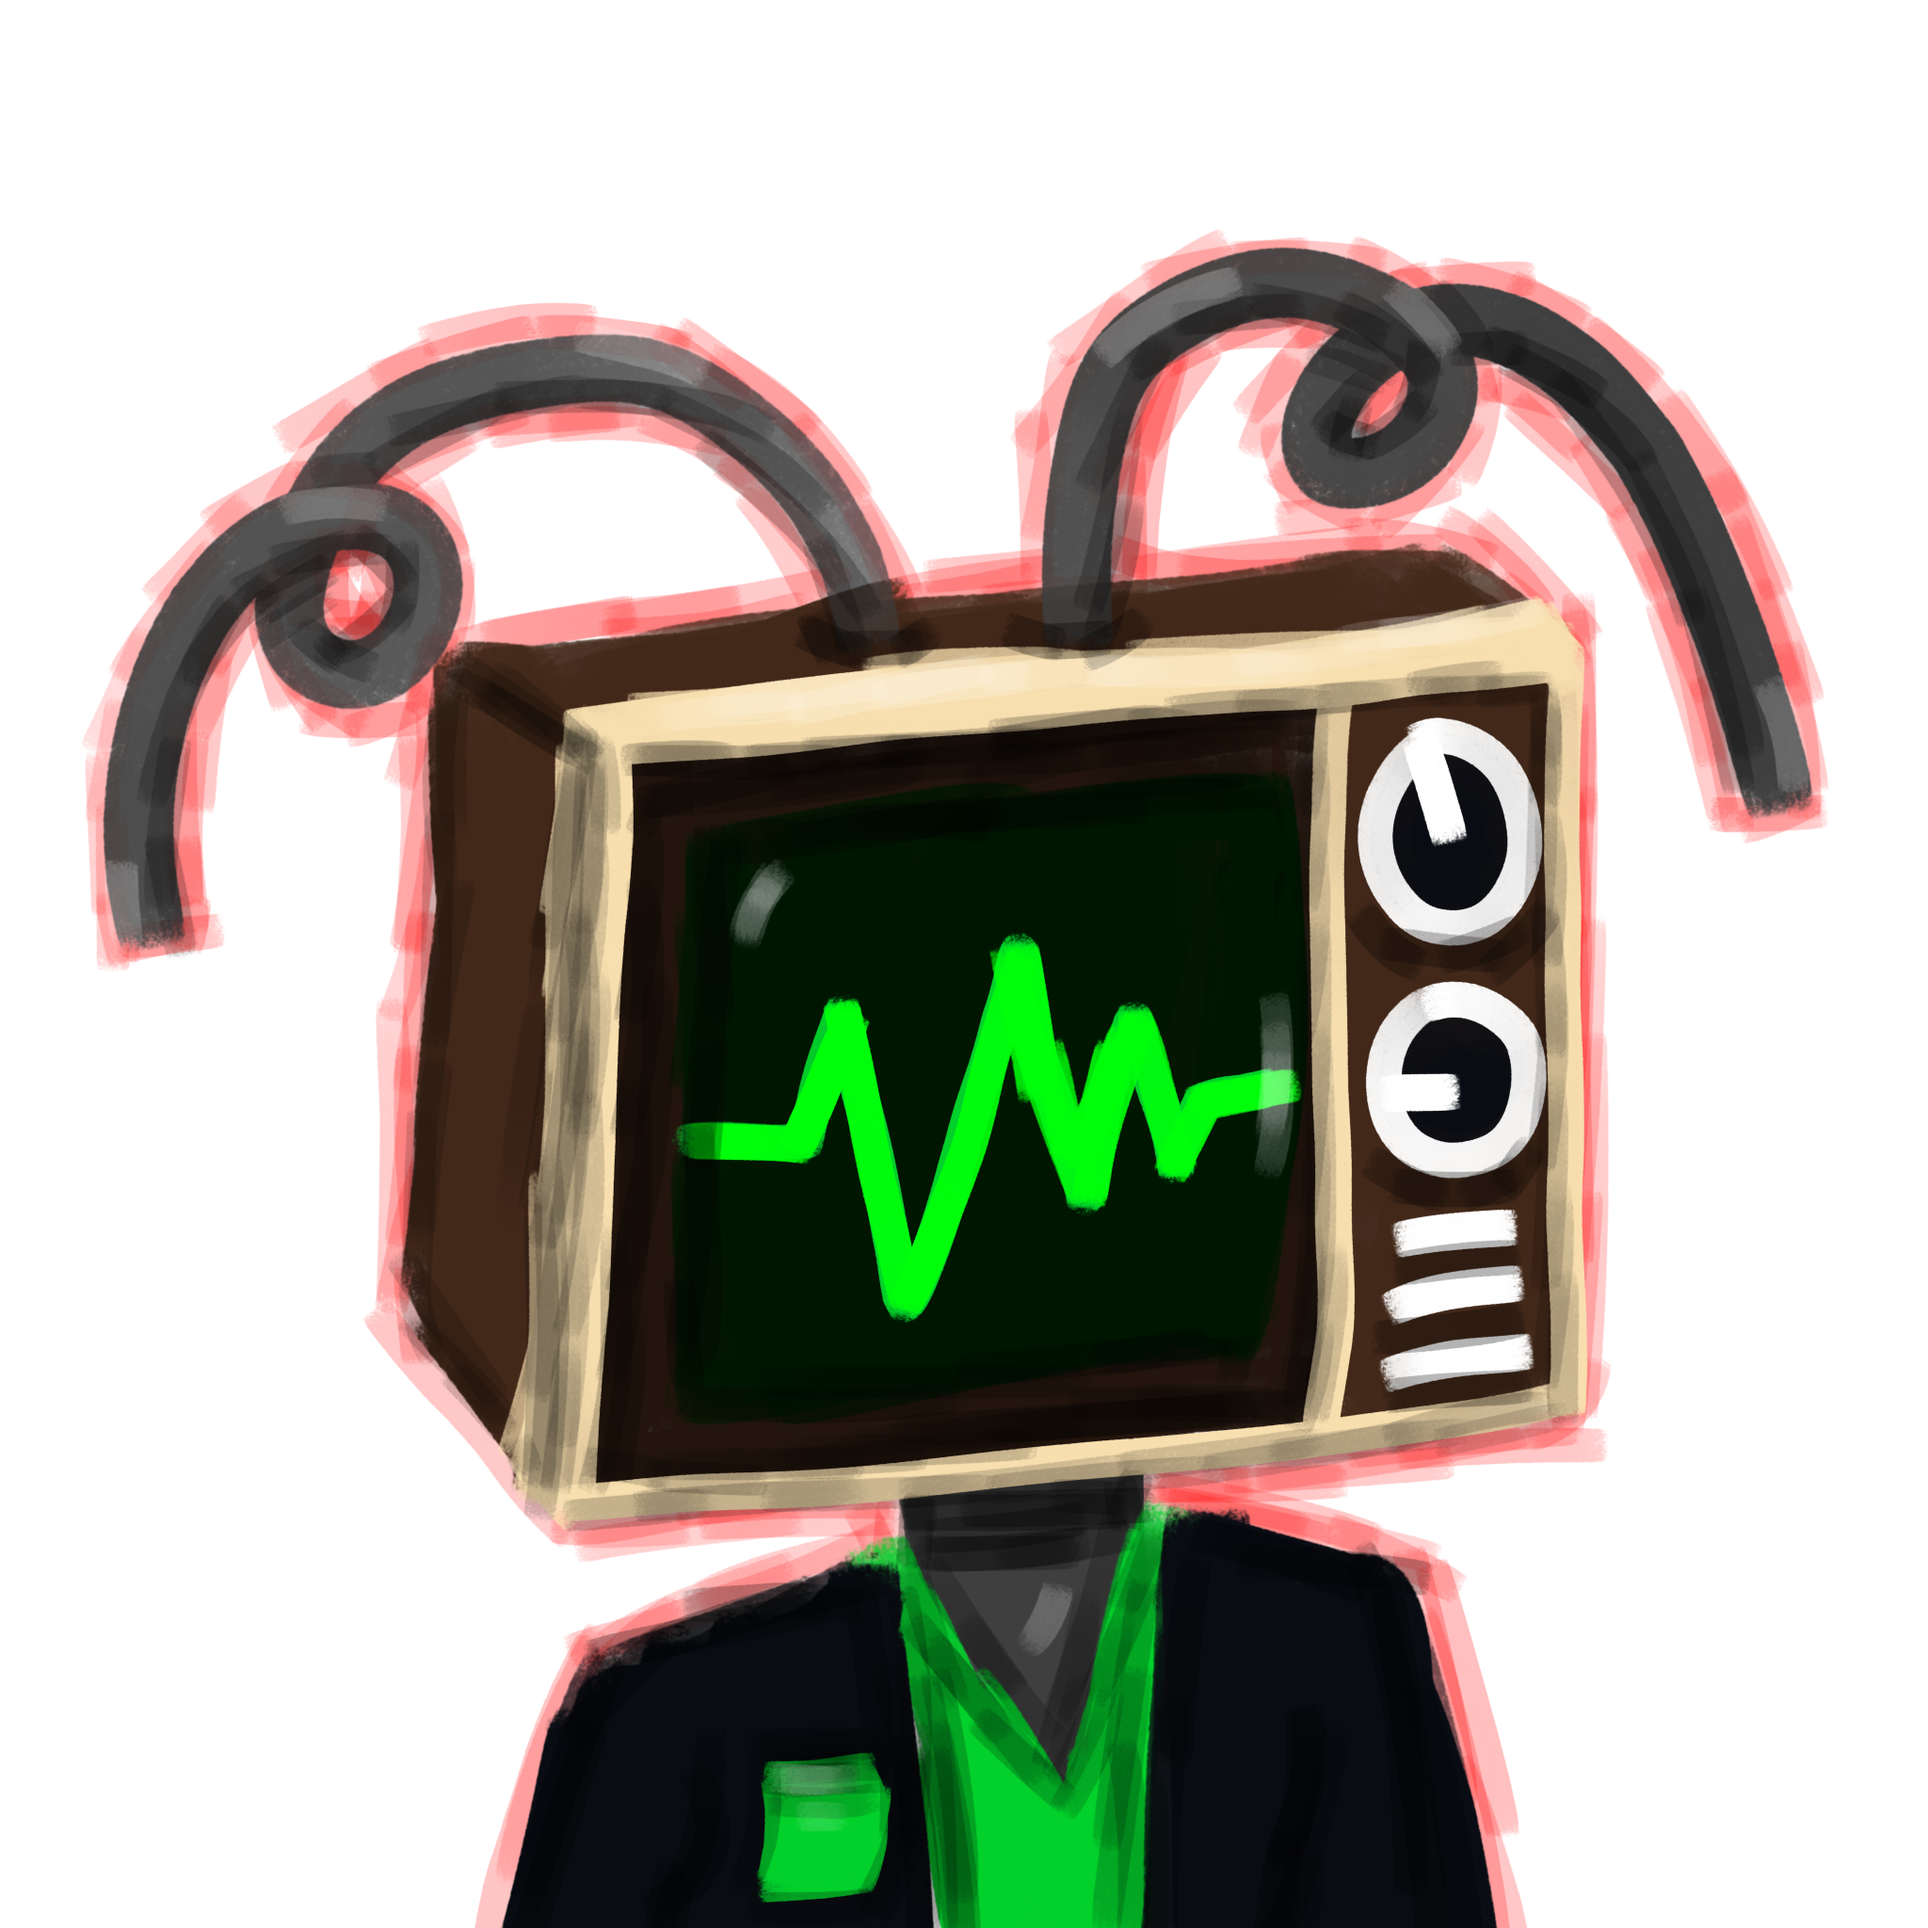
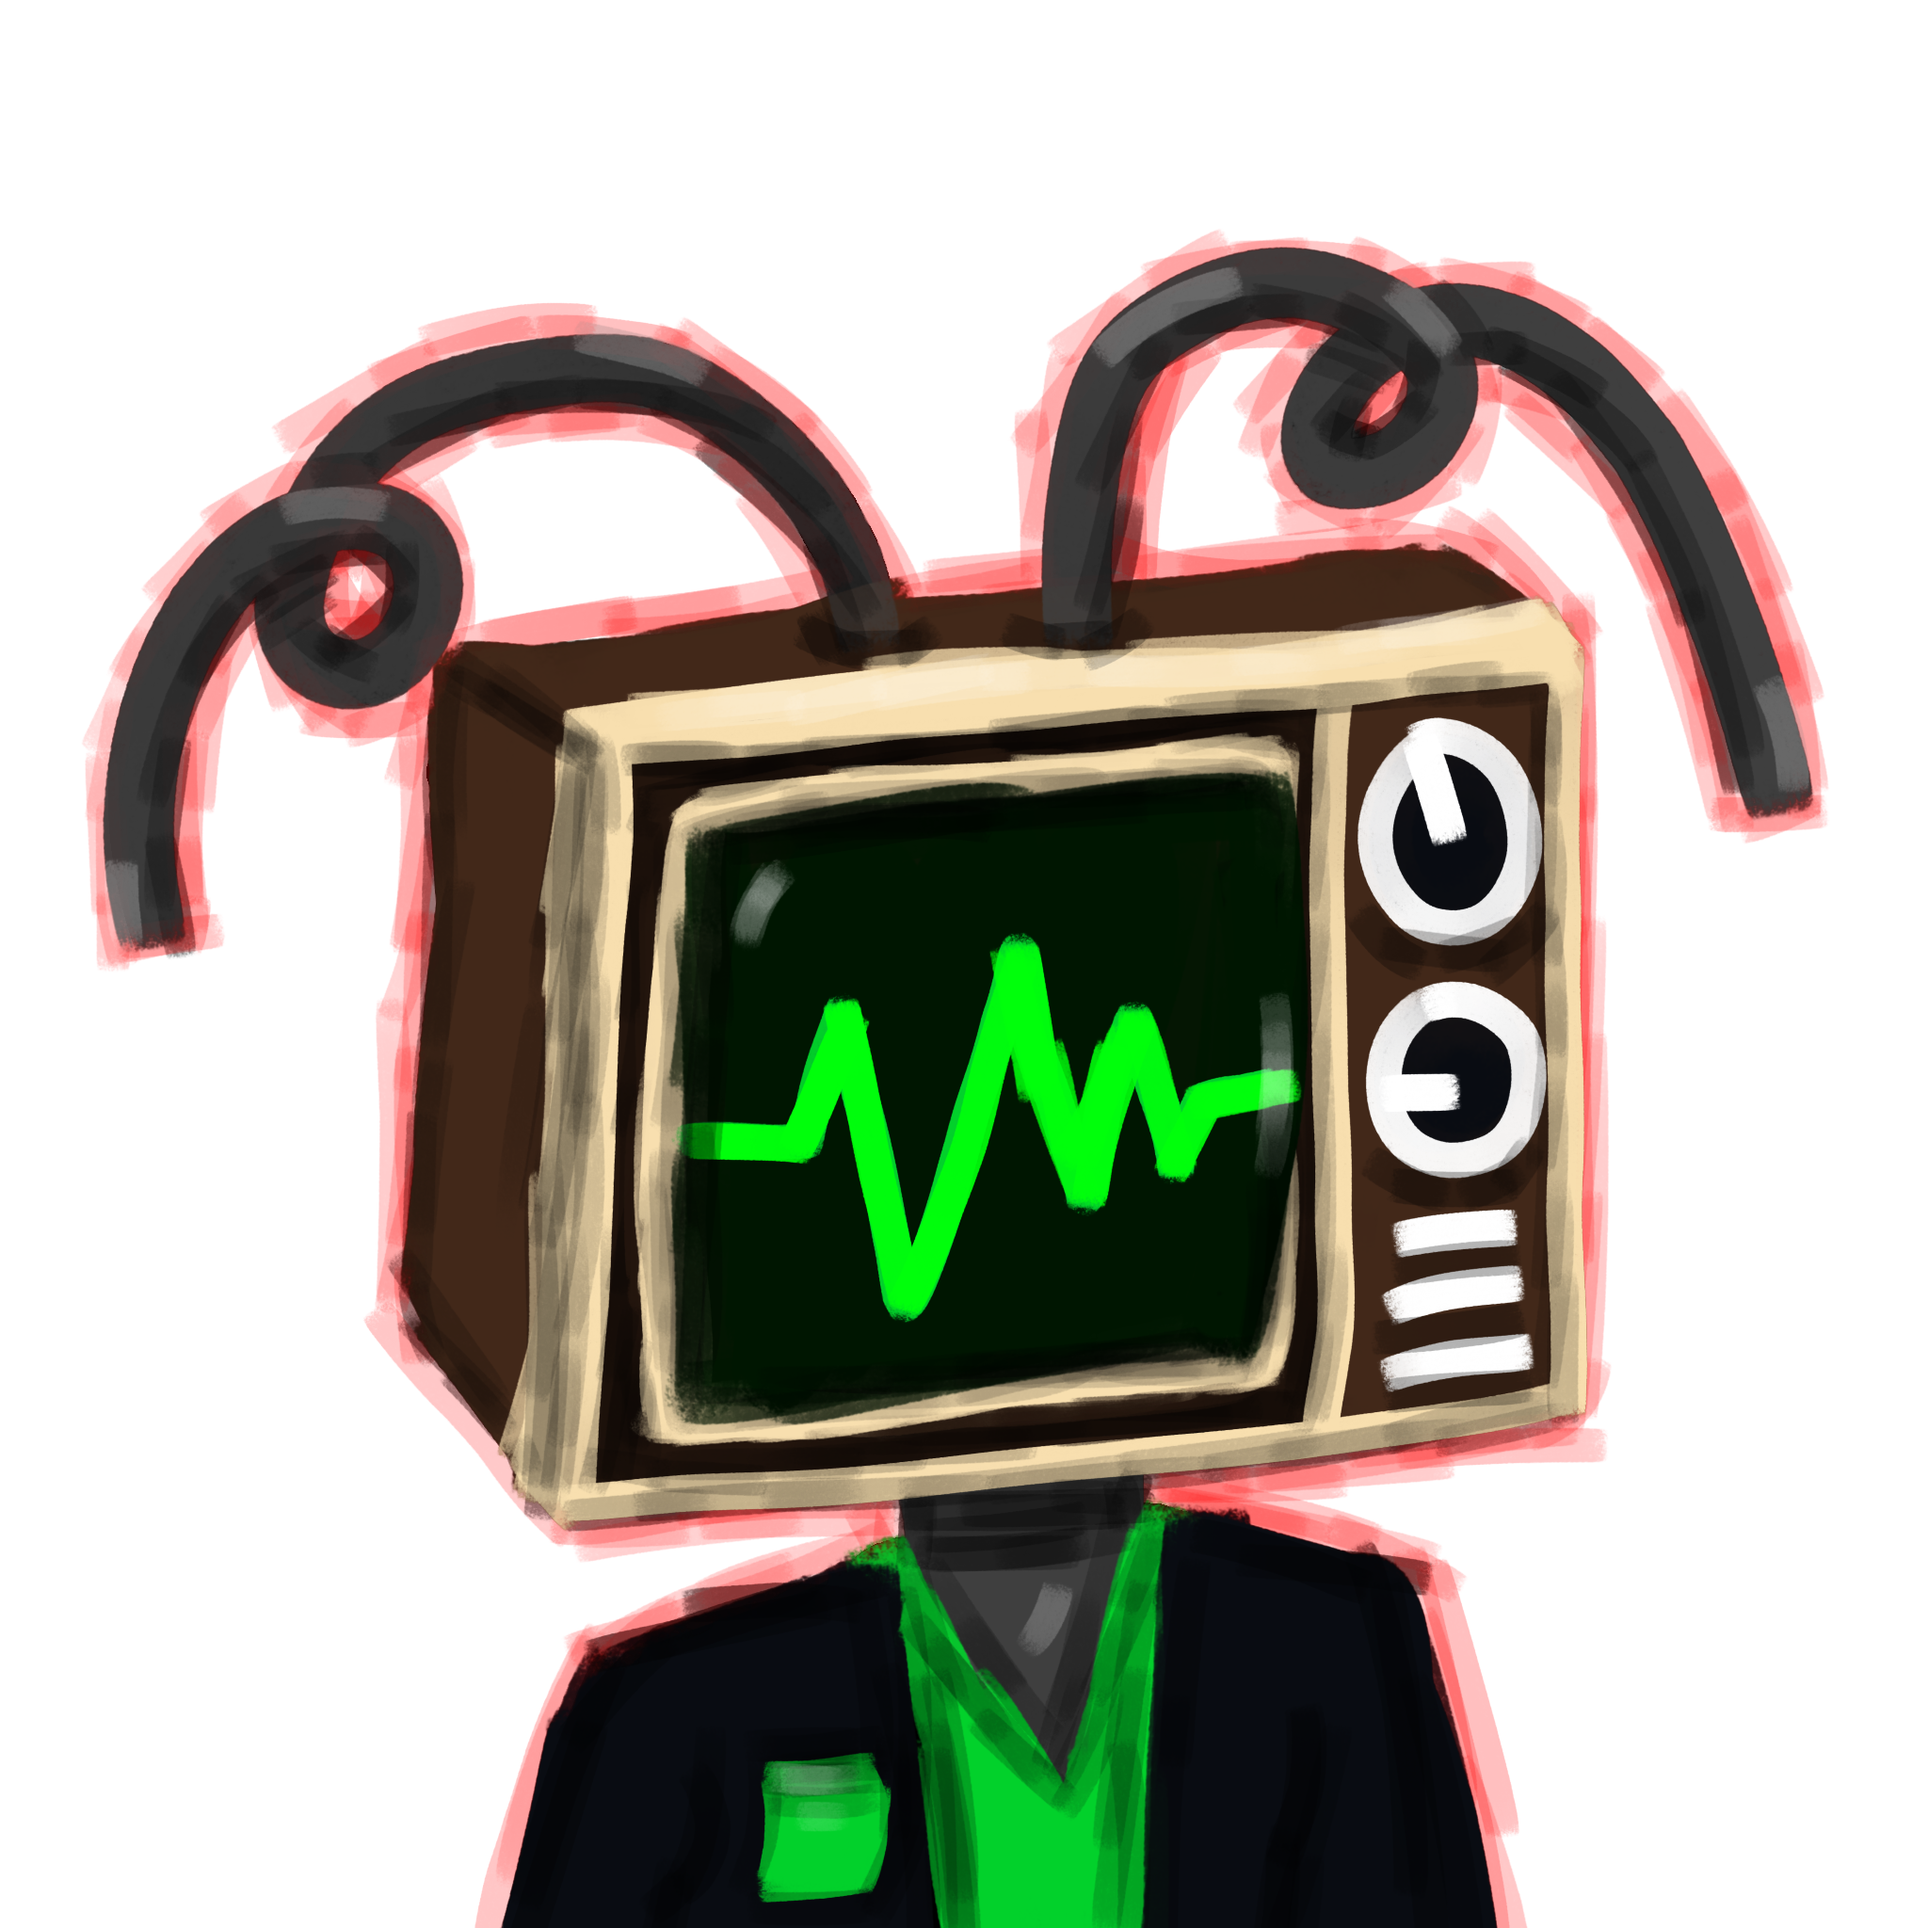
replace chroma image

diff --git a/updates.html b/updates.html
@@ -20,6 +20,8 @@
   </head>
   <body>
     <div class="frame">
+    <b>Update 6/29/25</b><br>
+    Replaced the Chroma painted PFP with a newer version that I made.<br><br>
     <b>Update 6/26/25</b><br>
     Finally finished/made the Argentum Antipodes page.<br><br>
     <b>Update 6/22/2025</b><br>
